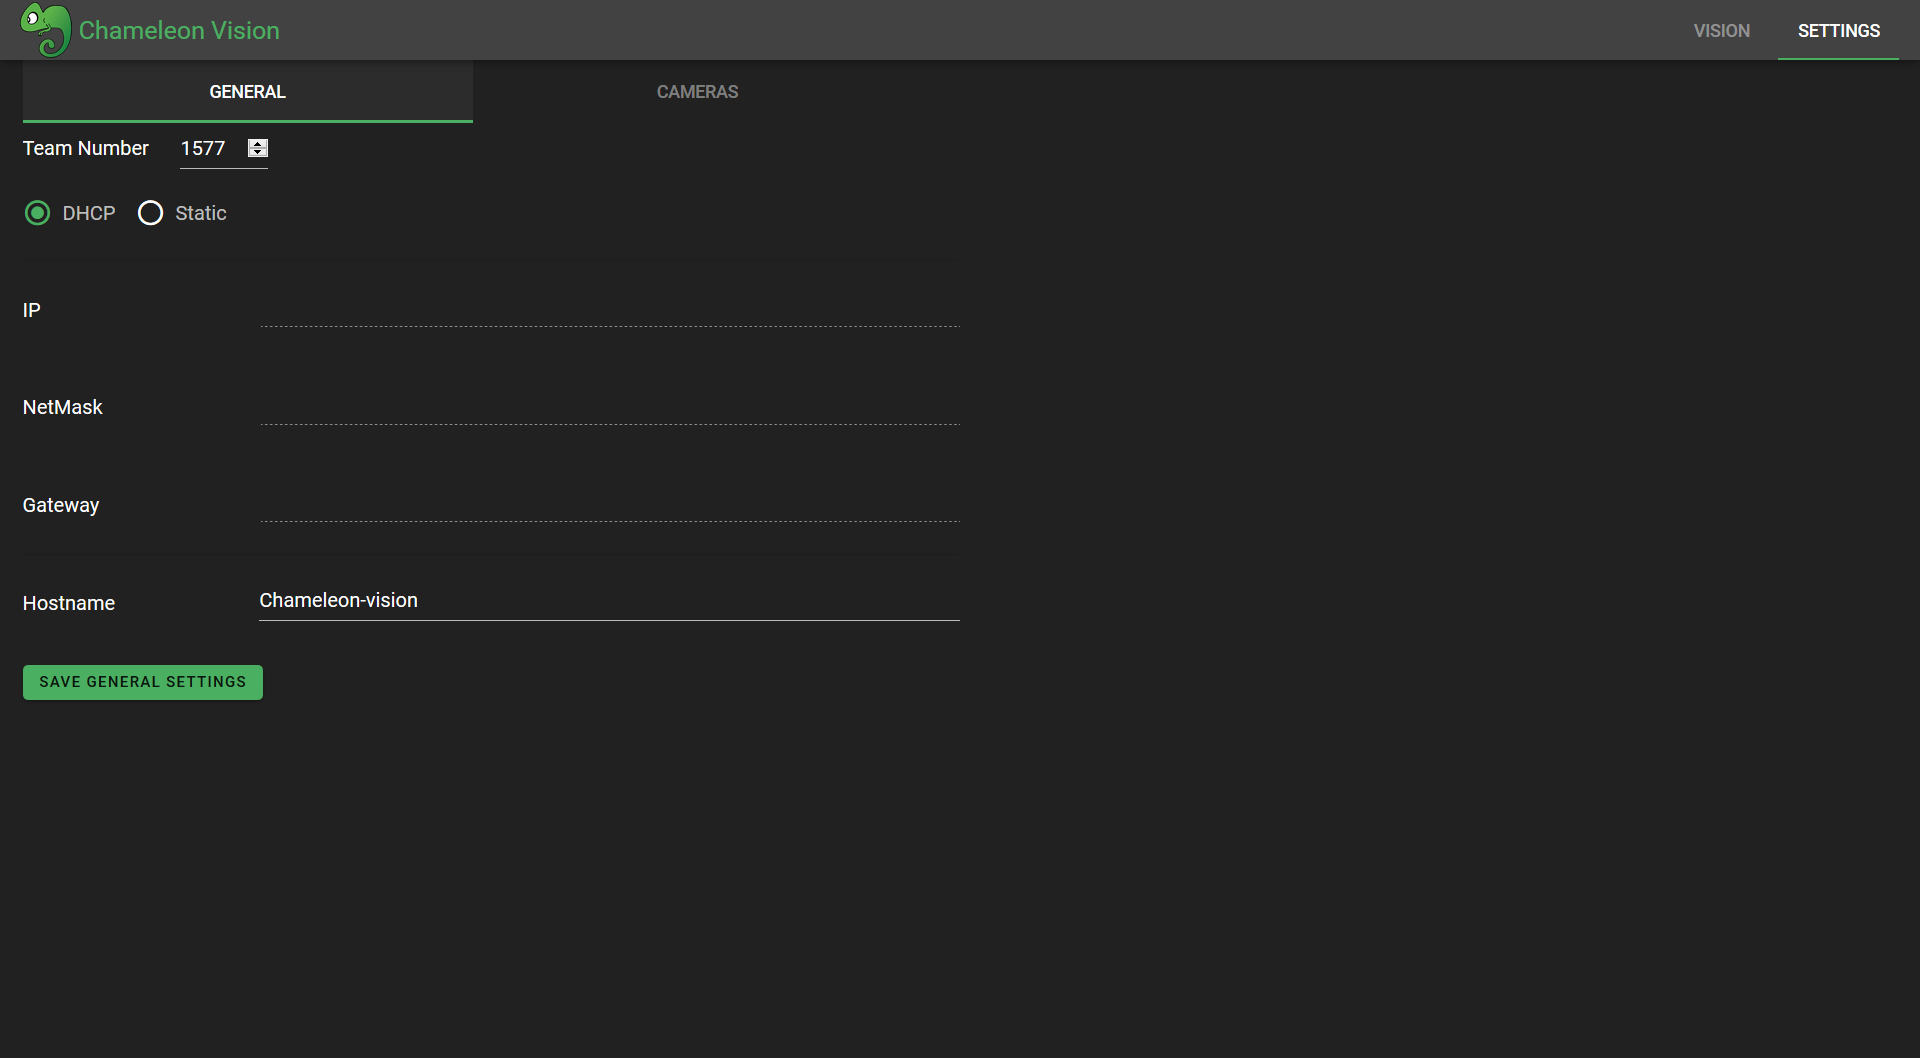
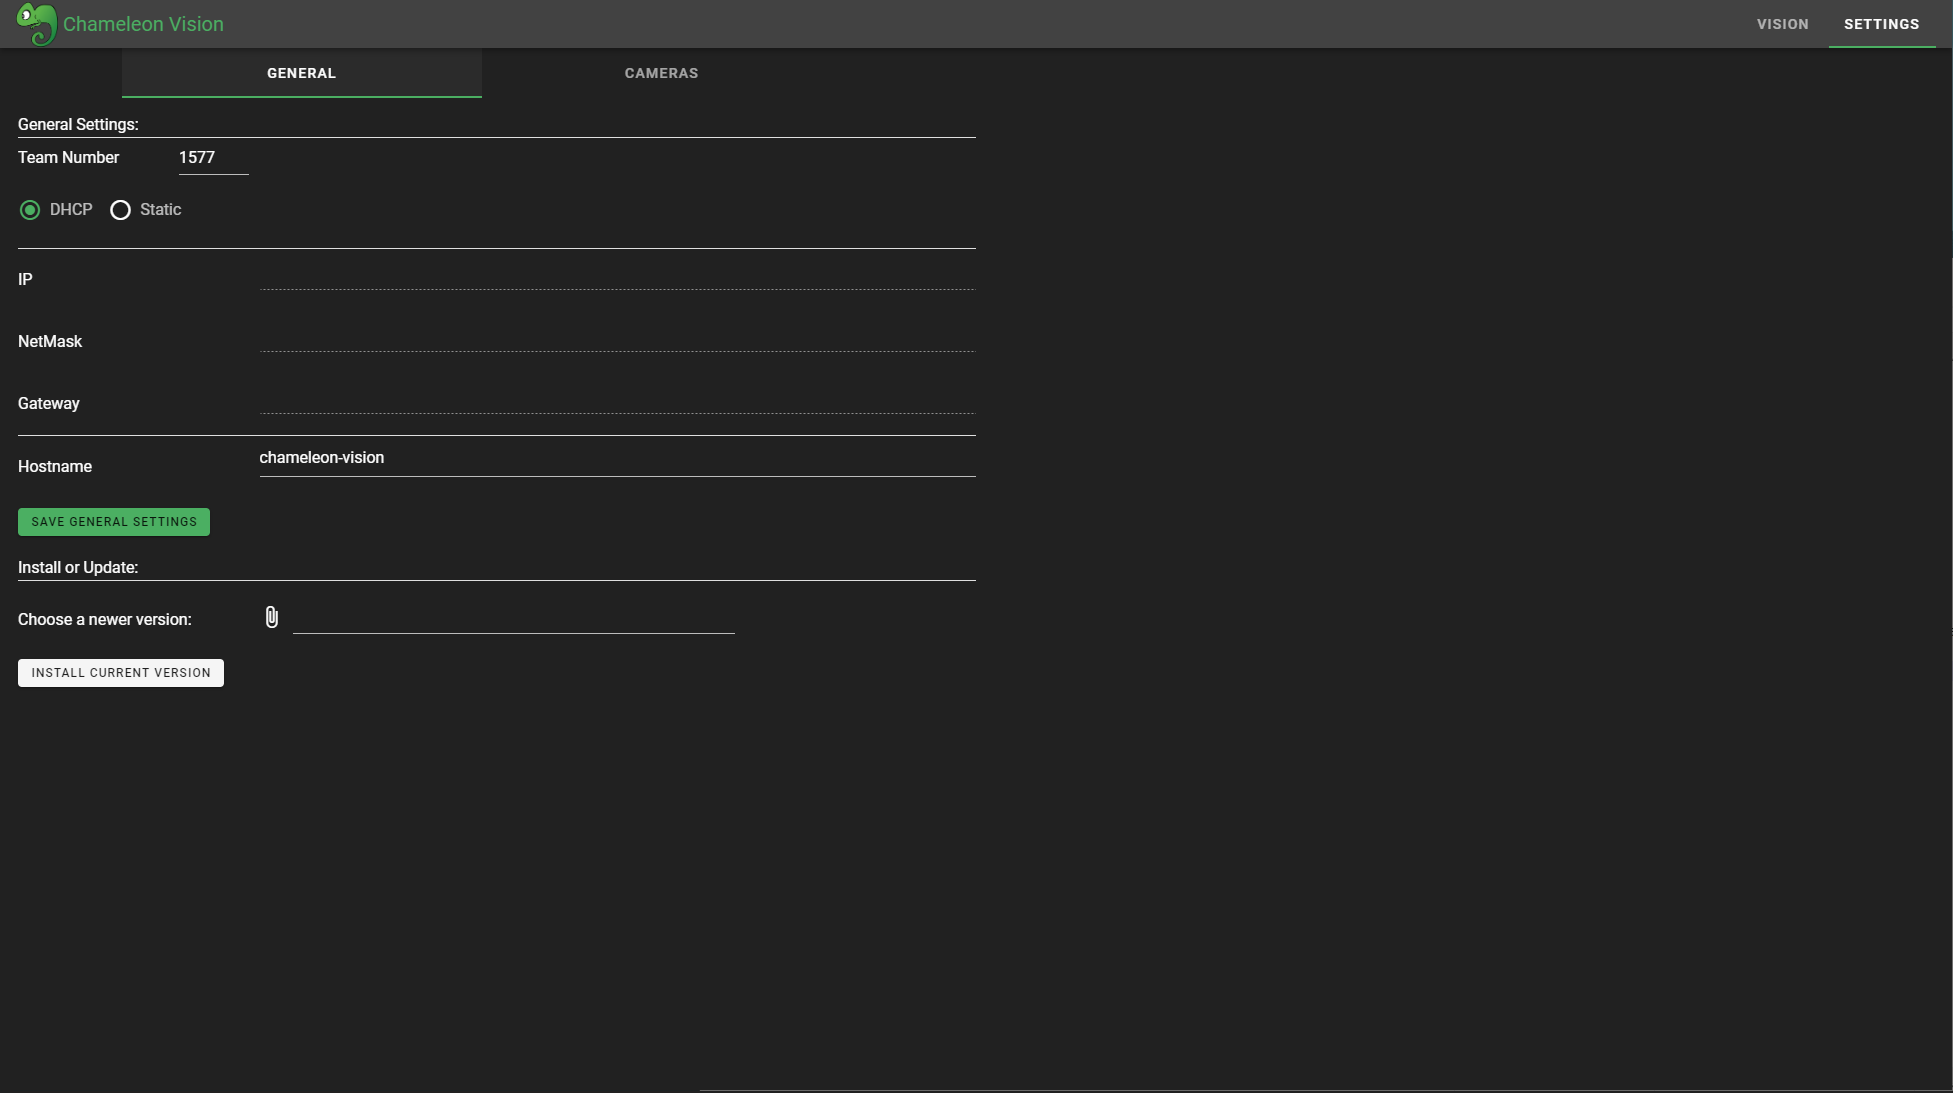
initial work

diff --git a/docs/source/installation/startup-and-upgrade.rst b/docs/source/installation/startup-and-upgrade.rst
@@ -1,0 +1,16 @@
+Auto Startup And Upgrade
+========================
+
+Auto Startup
+-----------------
+Using Chameleon Vision UI you can run your software at startup with just one click.
+Under General Settings you'll see an option called ``Install or Update``
+clicking the ``Install current version`` button will make chameleon vision run at startup
+.. image:: /images/UI/generaltab.PNG
+
+Version Upgrade
+-----------------
+With a new jar file downloaded to you local machine click on the file input for 'Choose a newer version' and select the newer file.
+once selected the button will change to ``Install And Update`` once clicked it will transfer the new version into the remote machine and make the new version run at startup after that all that is left is to restart and your done.\
+
+.. image:: /images/UI/generaltabUpgrade.PNG

diff --git a/docs/source/index.rst b/docs/source/index.rst
@@ -23,6 +23,8 @@ Chameleon Vision is a free open-source software that allows FRC teams to easily 
  
    installation/coprocessor-setup
    installation/pc-testing-setup
+   installation/startup-and-upgrade
+   
 
 .. toctree::
    :maxdepth: 2
